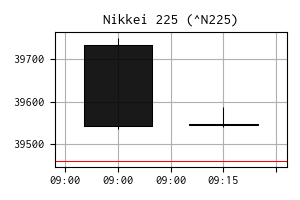
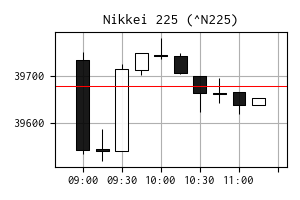
update

diff --git a/beetle/beetle_trader.py b/beetle/beetle_trader.py
@@ -11,6 +11,7 @@ from matplotlib.figure import Figure
 from PySide6.QtCore import Qt
 from PySide6.QtWidgets import QMainWindow
 
+from beetle.beetle_psar import PSARObject
 from structs.res import AppRes
 from widgets.docks import DockTrader
 
@@ -130,18 +131,25 @@ class Trader(QMainWindow):
         )
         """
 
-    def setPSAR(self, trend: int, ts: float, y: float, epupd: int):
+    # def setPSAR(self, trend: int, ts: float, y: float, epupd: int):
+    def setPSAR(self, ts: float, ret: PSARObject):
         x = pd.Timestamp(ts + self.tz, unit='s')
-        if 0 < trend:
+
+        self.x_data[self.counter_data] = x
+        self.y_data[self.counter_data] = ret.price
+        self.counter_data += 1
+        self.trend_line.set_xdata(self.x_data[0:self.counter_data])
+        self.trend_line.set_ydata(self.y_data[0:self.counter_data])
+
+        if 0 < ret.trend:
             self.x_bull[self.counter_bull] = x
-            self.y_bull[self.counter_bull] = y
+            self.y_bull[self.counter_bull] = ret.psar
             self.counter_bull += 1
             self.trend_bull.set_xdata(self.x_bull[0:self.counter_data])
             self.trend_bull.set_ydata(self.y_bull[0:self.counter_data])
-
-        elif trend < 0:
+        elif ret.trend < 0:
             self.x_bear[self.counter_bear] = x
-            self.y_bear[self.counter_bear] = y
+            self.y_bear[self.counter_bear] = ret.psar
             self.counter_bear += 1
             self.trend_bear.set_xdata(self.x_bear[0:self.counter_data])
             self.trend_bear.set_ydata(self.y_bear[0:self.counter_data])
@@ -153,7 +161,7 @@ class Trader(QMainWindow):
         self.chart.draw()
 
         # トレンドの向きをドックに設定
-        self.dock.setTrend(trend, epupd)
+        self.dock.setTrend(ret.trend, ret.epupd)
 
         # EP 更新頻度をインデックス・トレンドに表示
         # self.setIndex(np.float64(x), np.float64(epupd))
@@ -167,6 +175,8 @@ class Trader(QMainWindow):
         :param y:
         :return:
         """
+
+        """
         x = pd.Timestamp(ts + self.tz, unit='s')
         self.x_data[self.counter_data] = x
         self.y_data[self.counter_data] = y
@@ -174,12 +184,12 @@ class Trader(QMainWindow):
 
         self.trend_line.set_xdata(self.x_data[0:self.counter_data])
         self.trend_line.set_ydata(self.y_data[0:self.counter_data])
-
         self.ax.relim()
         self.ax.autoscale_view(scalex=False, scaley=True)  # X軸は固定、Y軸は自動
 
         # Canvas を再描画
         self.chart.draw()
+        """
 
         # 株価表示の更新
         self.dock.setPrice(y)
@@ -193,7 +203,7 @@ class Trader(QMainWindow):
         :param ts_end:
         :return:
         """
-        pad_left = 5. * 60 # チャート左側の余白（５分）
+        pad_left = 5. * 60  # チャート左側の余白（５分）
         dt_start = pd.Timestamp(ts_start + self.tz - pad_left, unit='s')
         dt_end = pd.Timestamp(ts_end + self.tz, unit='s')
 

diff --git a/beetle/beetle_ticker.py b/beetle/beetle_ticker.py
@@ -6,7 +6,6 @@ Ticker 毎のデータ処理クラス（銘柄スレッド・クラス）
 """
 import logging
 from collections import deque
-from statistics import median
 
 from PySide6.QtCore import (
     QObject,
@@ -15,12 +14,13 @@ from PySide6.QtCore import (
     Slot,
 )
 
-from beetle.beetle_psar import RealtimePSAR
+from beetle.beetle_psar import PSARObject, RealtimePSAR
 
 
 class TickerWorker(QObject):
     # Parabolic SAR の情報を通知
-    notifyPSAR = Signal(str, int, float, float, int)
+    # notifyPSAR = Signal(str, int, float, float, int)
+    notifyPSAR = Signal(str, float, PSARObject)
     notifyIndex = Signal(str, float, float)
 
     def __init__(self, ticker, parent=None):
@@ -39,19 +39,20 @@ class TickerWorker(QObject):
         # Realtime PSAR の算出
         # _/_/_/_/_/_/_/_/_/_/_/_/_/_/_/_/_/_/_/_/_/_/_/_/_/_/_/_/_/_/_/_/_/_/_
         # 直近のデータのメディアン値を使って Parabolic SAR を算出
-        self.deque_median.append(y)
-        y_median = median(self.deque_median)
+        # self.deque_median.append(y)
+        # y_median = median(self.deque_median)
         # ret = self.psar.add(y)
-        ret = self.psar.add(y_median)
+        ret: PSARObject = self.psar.add(y)
         # トレンドと PSAR の値を転記
-        trend = ret.trend
-        y_psar = ret.psar
-        epupd = ret.epupd
+        # trend = ret.trend
+        # y_psar = ret.psar
+        # epupd = ret.epupd
         # ---------------------------------------------
         # 🧿 Parabolic SAR の情報を通知
-        self.notifyPSAR.emit(
-            self.ticker, trend, x, y_psar, epupd
-        )
+        # self.notifyPSAR.emit(
+        #    self.ticker, trend, x, y_psar, epupd
+        # )
+        self.notifyPSAR.emit(self.ticker, x, ret)
         # ---------------------------------------------
 
         """

diff --git a/beetle/beetle_main.py b/beetle/beetle_main.py
@@ -13,6 +13,7 @@ from PySide6.QtCore import Signal, QThread, QTimer
 from PySide6.QtGui import QIcon, QCloseEvent
 from PySide6.QtWidgets import QMainWindow, QFileDialog
 
+from beetle.beetle_psar import PSARObject
 from funcs.ios import save_dataframe_to_excel
 from funcs.uis import clear_boxlayout
 from modules.acquisitor import AcquireWorker
@@ -537,17 +538,18 @@ class Beetle(QMainWindow):
             thread_ticker: ThreadTicker = self.dict_thread_ticker[ticker]
             thread_ticker.notifyNewPrice.emit(x, y)
 
-    def on_update_psar(self, ticker: str, trend: int, x: float, y: float, epupd: int):
+    # def on_update_psar(self, ticker: str, trend: int, x: float, y: float, epupd: int):
+    def on_update_psar(self, ticker: str, x: float, ret: PSARObject):
         """
         Parabolic SAR のトレンド点を追加
         :param ticker:
-        :param trend:
         :param x:
-        :param y:
+        :param ret:
         :return:
         """
         trader = self.dict_trader[ticker]
-        trader.setPSAR(trend, x, y, epupd)
+        # trader.setPSAR(trend, x, y, epupd)
+        trader.setPSAR(x, ret)
 
     def on_update_index(self, ticker: str, x: float, y: float):
         """

diff --git a/beetle/beetle_psar.py b/beetle/beetle_psar.py
@@ -54,25 +54,16 @@ class RealtimePSAR:
             self.obj.epupd = 0
             self.obj.duration = 0
             self.obj.distance = abs(price - self.obj.psar)
-            self.first_trend = False  # 最初のトレンドフラグを False に
-            # return self.obj
+            return self.obj
         else:
             # トレンド維持
             if self.cmp_ep(price):
                 self.update_ep_af(price)
-
             # PSAR の更新
             self.obj.psar = self.obj.psar + self.obj.af * (self.obj.ep - self.obj.psar)
-
-            # 最初のトレンドのみの対応
-            # if self.first_trend:
-            #    self.trend_follow_aggressive(price)
-
             self.obj.price = price
             self.obj.duration += 1
-            # return self.obj
-
-        return self.obj
+            return self.obj
 
     def cmp_ep(self, price: float) -> bool:
         if 0 < self.obj.trend:
